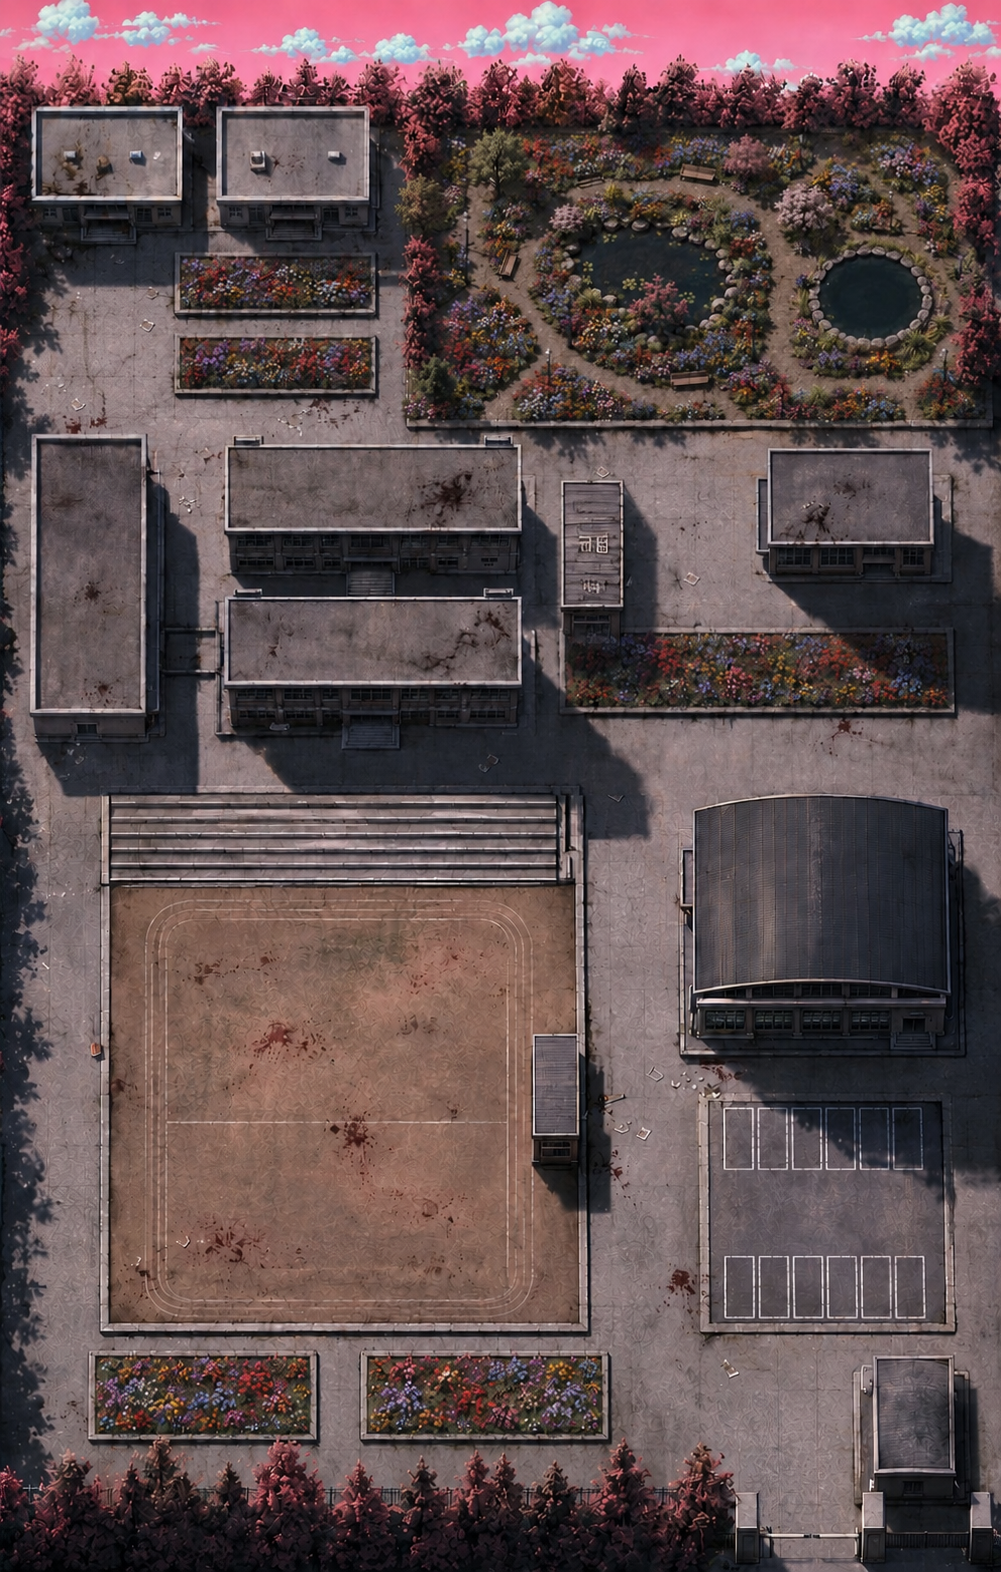
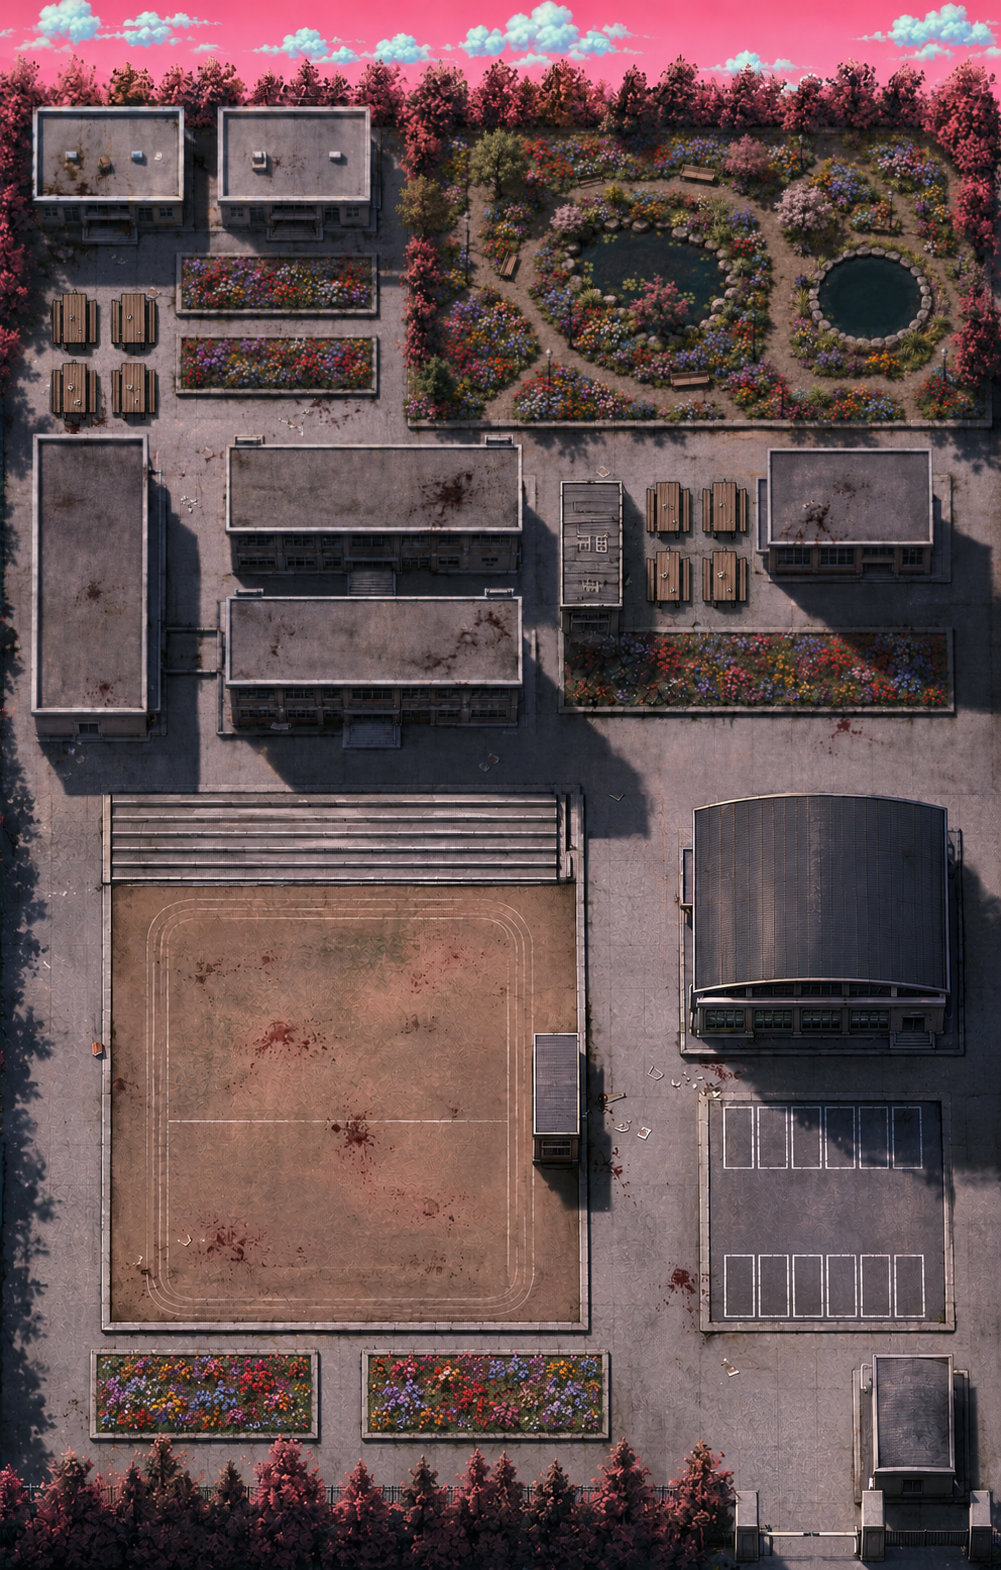
상호작용 업데이트1

diff --git a/script.js b/script.js
@@ -1,5 +1,13 @@
 /* =========================================================
    진태서 스토리 - 게임 로직 (카메라 패닝 버전)
+
+   포인트는 이제 travelPoints/points 로 나누지 않고 하나의 배열로 통합.
+   각 포인트는 type: "travel" 또는 "investigate" 를 가짐.
+
+   - travel: 클릭하면 destPct 위치로 카메라+플레이어 이동, 대사(enterText)만 표시
+   - investigate: 클릭하면 조건 체크 후 아이템/진행도 처리.
+     becomesTravel이 설정돼 있으면, 클리어되는 순간 그 지점이
+     travel 포인트로 성격이 바뀜(핑크색으로 전환, 이후엔 이동 기능만 함)
    ========================================================= */
 
 // ---------- DOM 참조 ----------
@@ -7,17 +15,16 @@ const mapShell = document.getElementById("map-shell");
 const mapWorld = document.getElementById("map-world");
 const mapImg = document.getElementById("map-img");
 const player = document.getElementById("player");
+const dialogueBox = document.getElementById("dialogue");
+const speakerEl = document.getElementById("speaker");
 const dialogue = document.getElementById("text");
+const dialogueNext = document.getElementById("dialogue-next");
 const locationText = document.getElementById("location");
 const inventoryBox = document.querySelector(".inventory");
 
 // ---------- 진행도 데이터 ----------
-const progressTasks = [
-    { id: "bench_key",  name: "벤치 아래 확인",   cleared: false },
-    { id: "pond_clue",  name: "연못가 흔적 조사", cleared: false },
-    { id: "locker",     name: "사물함 조사",       cleared: false },
-    { id: "front_door", name: "본관 현관문 열기", cleared: false }
-];
+// 지금은 비워둠. 실제 조사 포인트를 다시 설계하면서 필요한 만큼 채우면 됨.
+const progressTasks = [];
 
 // ---------- 인벤토리 ----------
 let inventory = [];
@@ -25,52 +32,43 @@ const ITEM_DB = {
     key: { id: "key", name: "낡은 열쇠" }
 };
 
-// ---------- 씬 데이터 (좌표는 전부 이미지 기준 % , 0~100) ----------
+// ---------- 씬 데이터 ----------
+// xPct/yPct/wPct/hPct : 맵 위에서 보이는 클릭 박스 위치(이미지 기준 %)
+// destPct             : 클릭했을 때 실제로 카메라/플레이어가 이동할 목적지(이미지 기준 %)
+//                        지금은 전부 위치=목적지로 임시 설정해둠. 나중에 따로 지정 가능.
 const SCENES = {
     school: {
         image: "images/school.png",
-        spawnPct: { x: 50, y: 95 },
+        spawnPct: { x: 81, y: 96 },
 
-        travelPoints: [
-            { id: "zone1", name: "운동장", xPct: 30, yPct: 66, wPct: 22, hPct: 12, enterText: "운동장이다." },
-            { id: "zone2", name: "연못",   xPct: 68, yPct: 15, wPct: 20, hPct: 10, enterText: "연못이다." },
-            { id: "zone3", name: "본관",   xPct: 30, yPct: 33, wPct: 18, hPct: 10, enterText: "본관으로 들어갈 수 있을 것 같다." },
-            { id: "zone4", name: "???",    xPct: 78, yPct: 60, wPct: 16, hPct: 10, enterText: "아직 갈 수 없는 장소다." }
-        ],
-
+        // 각 항목의 모든 값을 개별로 수정 가능:
+        //   xPct, yPct   : 클릭 박스가 보이는 위치 (박스 왼쪽 위 모서리 기준, 이미지 대비 %)
+        //   wPct, hPct   : 클릭 박스의 가로/세로 크기 (이미지 대비 %)
+        //   destPct      : 클릭 시 카메라+플레이어가 실제로 이동할 위치 (이미지 대비 %)
+        //   enterText    : 클릭 시 대사창에 뜨는 문구
         points: [
-            {
-                id: "bench",
-                xPct: 10, yPct: 8, wPct: 8, hPct: 4,
-                progressTaskId: "bench_key",
-                text: "벤치 아래에서 낡은 열쇠를 발견했다.",
-                clearedText: "이미 확인한 벤치다.",
-                givesItem: "key"
-            },
-            {
-                id: "pond_edge",
-                xPct: 63, yPct: 18, wPct: 8, hPct: 4,
-                progressTaskId: "pond_clue",
-                text: "물가에서 이상한 발자국을 발견했다.",
-                clearedText: "이미 조사한 흔적이다."
-            },
-            {
-                id: "locker",
-                xPct: 22, yPct: 30, wPct: 8, hPct: 4,
-                progressTaskId: "locker",
-                text: "사물함 안에는 별다른 게 없었다.",
-                clearedText: "이미 조사한 사물함이다."
-            },
-            {
-                id: "front_door",
-                xPct: 34, yPct: 30, wPct: 8, hPct: 4,
-                progressTaskId: "front_door",
-                requiresItem: "key",
-                consumesItem: true,
-                lockedText: "문이 잠겨있다. 무언가 열쇠가 필요할 것 같다.",
-                text: "낡은 열쇠로 문을 열었다.",
-                clearedText: "이미 열어둔 문이다."
-            }
+            { id:"dorm",            name:"기숙사",      type:"travel", xPct:3, yPct:6.7, wPct:15.4, hPct:9, destPct:{x:7.2, y:4.6}, enterText:"기숙사이다." },
+            { id:"admin",           name:"행정관",      type:"travel", xPct:21.6, yPct:6.7, wPct:15.4, hPct:9, destPct:{x:34, y:12.5}, enterText:"행정관이다." },
+            { id:"cafeteria_table", name:"식당 테이블", type:"travel", xPct:5, yPct:18.7, wPct:10.8, hPct:8.2, destPct:{x:34, y:84.5}, enterText:"식당 테이블이다." },
+            { id:"flowerbed4",      name:"화단4",       type:"travel", xPct:17.5, yPct:16, wPct:20.3, hPct:4.4, destPct:{x:52, y:66.5}, enterText:"화단4이다." },
+            { id:"flowerbed5",      name:"화단5",       type:"travel", xPct:17.5, yPct:21.1, wPct:20.3, hPct:4.4, destPct:{x:70, y:66.5}, enterText:"화단5이다." },
+            { id:"flowerbed1",      name:"화단1",       type:"travel", xPct:44, yPct:8, wPct:52, hPct:19, destPct:{x:88, y:48.5}, enterText:"화단1이다." },
+            { id:"pond",            name:"연못",        type:"travel", xPct:80.6, yPct:15.3, wPct:13, hPct:7, destPct:{x:88, y:30.5}, enterText:"연못이다." },
+            { id:"cafeteria",       name:"식당",        type:"travel", xPct:3, yPct:27.5, wPct:13.3, hPct:19.5, destPct:{x:52, y:12.5}, enterText:"식당이다." },
+            { id:"annex",           name:"별관",        type:"travel", xPct:22.5, yPct:28.1, wPct:29.5, hPct:8.6, destPct:{x:70, y:12.5}, enterText:"별관이다." },
+            { id:"main_hall",       name:"본관",        type:"travel", xPct:22.5, yPct:38, wPct:29.5, hPct:8.6, destPct:{x:88, y:12.5}, enterText:"본관으로 들어갈 수 있을 것 같다." },
+            { id:"store",           name:"매점",        type:"travel", xPct:56, yPct:30.6, wPct:6.2, hPct:9.5, destPct:{x:52, y:30.5}, enterText:"매점이다." },
+            { id:"store_table",     name:"매점 테이블", type:"travel", xPct:64.2, yPct:30.6, wPct:10.8, hPct:8.2, destPct:{x:70, y:30.5}, enterText:"매점 테이블이다." },
+            { id:"library",         name:"도서관",      type:"travel", xPct:75.5, yPct:28.5, wPct:19.7, hPct:8.5, destPct:{x:34, y:30.5}, enterText:"도서관이다." },
+            { id:"flowerbed6",      name:"화단6",       type:"travel", xPct:56, yPct:40, wPct:39.3, hPct:5.8, destPct:{x:88, y:66.5}, enterText:"화단6이다." },
+            { id:"playground",      name:"운동장",      type:"travel", xPct:10, yPct:50, wPct:49, hPct:35, destPct:{x:70, y:30.5}, enterText:"운동장이다." },
+            { id:"platform",        name:"구령대",      type:"travel", xPct:53, yPct:65.7, wPct:5, hPct:8.6, destPct:{x:88, y:30.5}, enterText:"구령대이다." },
+            { id:"gym",             name:"체육관",      type:"travel", xPct:68, yPct:50.1, wPct:28, hPct:17, destPct:{x:16, y:48.5}, enterText:"체육관이다." },
+            { id:"parking",         name:"주차장",      type:"travel", xPct:70, yPct:69.5, wPct:25.3, hPct:15.3, destPct:{x:34, y:48.5}, enterText:"주차장이다." },
+            { id:"flowerbed2",      name:"화단2",       type:"travel", xPct:9, yPct:86, wPct:23, hPct:6, destPct:{x:16, y:66.5}, enterText:"화단2이다." },
+            { id:"flowerbed3",      name:"화단3",       type:"travel", xPct:36.1, yPct:86, wPct:25, hPct:6, destPct:{x:34, y:66.5}, enterText:"화단3이다." },
+            { id:"guard_room",      name:"경비실",      type:"travel", xPct:85, yPct:86.1, wPct:12, hPct:9.8, destPct:{x:52, y:48.5}, enterText:"경비실이다." },
+            { id:"gate",            name:"교문",        type:"travel", xPct:73.5, yPct:94.8, wPct:14.8, hPct:4.7, destPct:{x:70, y:48.5}, dialogue: [{ speaker:"교문", text:"낡은 철제 교문이다." },{ speaker:"진태서", text:"아직 학교를 다 안둘러봤어." }]}
         ]
     }
 };
@@ -109,7 +107,7 @@ function loadScene(sceneId) {
         centerCameraOn(spawnPx.x, spawnPx.y);
 
         renderPoints();
-        setDialogue("게임을 시작하세요.");
+        playDialogue("게임을 시작하세요.");
         locationText.innerHTML = "학교";
     };
     mapImg.src = scene.image;
@@ -157,8 +155,51 @@ function placePlayer(worldX, worldY) {
     player.style.top = worldY + "px";
 }
 
-// ---------- 진행도 / 인벤토리 ----------
-function setDialogue(text) { dialogue.innerHTML = text; }
+// ---------- 대사 시스템 ----------
+// 대사는 여러 줄(각 줄마다 화자 지정 가능)로 이어질 수 있음.
+// input이 그냥 문자열이면 화자는 defaultSpeaker(기본 "진태서")로 자동 처리.
+// input이 [{speaker, text}, ...] 배열이면 그대로 순서대로 재생.
+let dialogueQueue = [];
+let dialogueIndex = 0;
+
+function normalizeDialogue(input, defaultSpeaker) {
+    const speaker = defaultSpeaker || "진태서";
+    if (!input) return [];
+    if (Array.isArray(input)) {
+        return input.map(item =>
+            typeof item === "string"
+                ? { speaker: speaker, text: item }
+                : { speaker: item.speaker || speaker, text: item.text }
+        );
+    }
+    return [{ speaker: speaker, text: input }];
+}
+
+function playDialogue(input, defaultSpeaker) {
+    dialogueQueue = normalizeDialogue(input, defaultSpeaker);
+    dialogueIndex = 0;
+    renderDialogueLine();
+}
+
+function renderDialogueLine() {
+    if (dialogueQueue.length === 0) return;
+    const line = dialogueQueue[dialogueIndex];
+    speakerEl.textContent = line.speaker;
+    dialogue.innerHTML = line.text;
+    dialogueNext.style.display = (dialogueIndex < dialogueQueue.length - 1) ? "block" : "none";
+}
+
+function advanceDialogue() {
+    if (dialogueIndex < dialogueQueue.length - 1) {
+        dialogueIndex++;
+        renderDialogueLine();
+    }
+}
+
+dialogueBox.addEventListener("click", advanceDialogue);
+
+// 예전 코드 호환용 (setDialogue를 부르던 곳들이 있으면 그대로 동작)
+function setDialogue(text) { playDialogue(text); }
 
 function renderInventory() {
     inventoryBox.innerHTML = "";
@@ -196,9 +237,9 @@ function removeItem(itemId) {
 function hasItem(itemId) { return inventory.includes(itemId); }
 
 // ---------- 포인트 렌더링 & 클릭 ----------
-function createPointEl(data, extraClass) {
+function createPointEl(data) {
     const el = document.createElement("div");
-    el.className = ("point " + (extraClass || "")).trim();
+    el.className = data.type === "travel" ? "point point-travel" : "point";
     const pos = pctToWorldPx(data.xPct, data.yPct);
     const size = pctToWorldPx(data.wPct, data.hPct);
     el.style.left = pos.x + "px";
@@ -212,34 +253,31 @@ function renderPoints() {
     document.querySelectorAll(".point").forEach(el => el.remove());
     const scene = SCENES[currentSceneId];
 
-    scene.travelPoints.forEach(tp => {
-        const el = createPointEl(tp, "point-travel");
-        el.onclick = () => enterTravelPoint(tp);
-        mapWorld.appendChild(el);
-    });
-
     scene.points.forEach(p => {
-        const el = createPointEl(p, p.cleared ? "point-cleared" : "");
+        const el = createPointEl(p);
         el.onclick = () => handlePointClick(p);
         mapWorld.appendChild(el);
     });
 }
 
-function enterTravelPoint(tp) {
-    locationText.innerHTML = tp.name;
-    setDialogue(tp.enterText);
-    const pos = pctToWorldPx(tp.xPct, tp.yPct);
-    placePlayer(pos.x, pos.y);
-    centerCameraOn(pos.x, pos.y);
-}
-
 function handlePointClick(point) {
+    if (point.type === "travel") {
+        locationText.innerHTML = point.name;
+        // point.dialogue가 있으면 그 배열(화자 포함) 사용, 없으면 enterText를 진태서 대사로 표시
+        playDialogue(point.dialogue || point.enterText);
+        const pos = pctToWorldPx(point.destPct.x, point.destPct.y);
+        placePlayer(pos.x, pos.y);
+        centerCameraOn(pos.x, pos.y);
+        return;
+    }
+
+    // ---- 조사 포인트 처리 ----
     if (point.cleared) {
-        setDialogue(point.clearedText || point.text);
+        playDialogue(point.clearedDialogue || point.clearedText || point.text);
         return;
     }
     if (point.requiresItem && !hasItem(point.requiresItem)) {
-        setDialogue(point.lockedText || "지금은 무언가 부족한 것 같다.");
+        playDialogue(point.lockedDialogue || point.lockedText || "지금은 무언가 부족한 것 같다.");
         return;
     }
 
@@ -248,7 +286,16 @@ function handlePointClick(point) {
     if (point.givesItem) addItem(point.givesItem);
     if (point.progressTaskId) completeProgress(point.progressTaskId);
 
-    setDialogue(point.text);
+    playDialogue(point.dialogue || point.text);
+
+    // 아이템을 얻는 등 완료 후 이동 포인트로 전환되도록 설정된 경우, 성격을 바꿔치기
+    if (point.becomesTravel) {
+        point.type = "travel";
+        point.destPct = point.becomesTravel.destPct;
+        point.enterText = point.becomesTravel.enterText || point.clearedText || point.text;
+        point.name = point.becomesTravel.name || point.name;
+    }
+
     renderPoints();
 }
 

diff --git a/style.css b/style.css
@@ -85,6 +85,8 @@ header{
     background:#111;
     padding:20px;
     border-top:2px solid #444;
+    position:relative;
+    cursor:pointer;
 }
 
 #speaker{
@@ -95,6 +97,21 @@ header{
 
 #text{
     font-size:20px;
+}
+
+#dialogue-next{
+    position:absolute;
+    right:20px;
+    bottom:16px;
+    font-size:18px;
+    color:#aaa;
+    animation:dialogue-bounce 1s infinite;
+    display:none;
+}
+
+@keyframes dialogue-bounce{
+    0%, 100% { transform:translateY(0); }
+    50% { transform:translateY(4px); }
 }
 
 /* ---------- 사이드바 ---------- */
@@ -180,37 +197,41 @@ section li{
 /* ---------- 상호작용/이동 포인트 ---------- */
 
 .point{
+
     position:absolute;
-    border:2px dashed rgba(0,200,255,.7);
-    background:rgba(0,200,255,.08);
+
+    border:2px dashed rgba(61,220,151,.8);
+
+    background:rgba(61,220,151,.1);
+
     border-radius:6px;
+
     transition:.2s;
+
     box-sizing:border-box;
 }
 
 .point:hover{
-    border:2px solid #00e0ff;
-    background:rgba(0,224,255,.2);
+
+    border:2px solid #3ddc97;
+
+    background:rgba(61,220,151,.22);
+
     cursor:pointer;
 }
 
 .point-travel{
-    border:2px dashed rgba(255,220,80,.8);
-    background:rgba(255,220,80,.08);
+
+    border:2px dashed rgba(255,105,180,.8);
+
+    background:rgba(255,105,180,.1);
 }
 
 .point-travel:hover{
-    border:2px solid #ffdc50;
-    background:rgba(255,220,80,.2);
+
+    border:2px solid #ff69b4;
+
+    background:rgba(255,105,180,.22);
+
     cursor:pointer;
-}
-
-.point-cleared{
-    border:2px dashed rgba(120,120,120,.6);
-    background:rgba(120,120,120,.05);
-}
-
-.point-cleared:hover{
-    border:2px solid #888;
-    background:rgba(120,120,120,.15);
 }

diff --git a/index.html b/index.html
@@ -25,6 +25,7 @@
             <div id="dialogue">
                 <div id="speaker">진태서</div>
                 <div id="text">게임을 시작하세요.</div>
+                <div id="dialogue-next">▼</div>
             </div>
         </div>
 